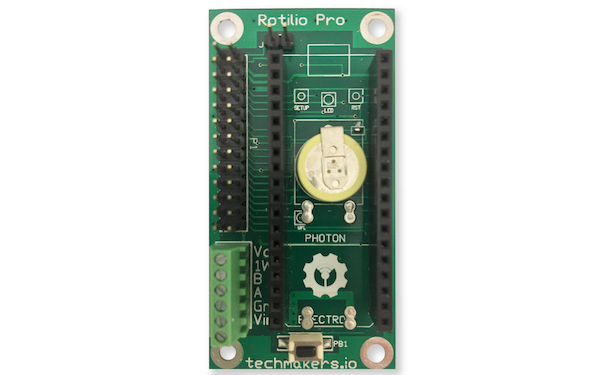
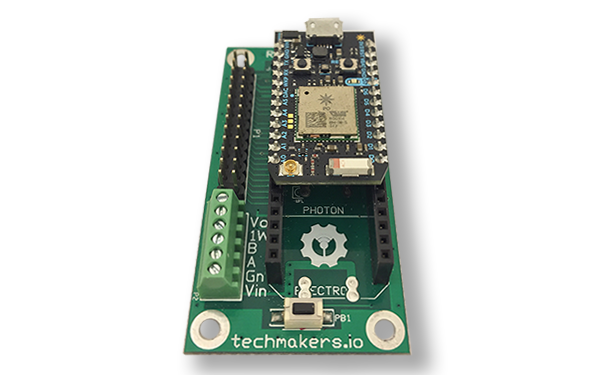
Risorse Sviluppatori fixed

Changed region(s): [[0.3, 0.0, 0.75, 1.0]]

diff --git a/Nuovosito/about.html b/Nuovosito/about.html
@@ -173,7 +173,7 @@
                 <div class="thumbnail">
                     <img class="img-responsive" src="http://placehold.it/750x450" alt="">
                     <div class="caption">
-                        <h3>John Smith<br>
+                        <h3>Mara Sabini<br>
                             <small>Job Title</small>
                         </h3>
                         <p>Lorem ipsum dolor sit amet, consectetur adipisicing elit. Iste saepe et quisquam nesciunt maxime.</p>
@@ -190,11 +190,14 @@
             </div>
             <div class="col-md-3 text-center">
                 <div class="thumbnail">
-                    <img class="img-responsive" src="http://placehold.it/750x450" alt="">
+                    <div style="padding: 20px;">
+                     <span class="fa-stack fa-4x">
+                              <i class="fa fa-circle fa-stack-2x"></i>
+                              <i class="fa fa-question fa-stack-2x fa-inverse"></i>
+                        </span>
+                    </div>
                     <div class="caption">
-                        <h3>John Smith<br>
-                            <small>Job Title</small>
-                        </h3>
+                        <h3>Stiamo assumendo<br></h3>
                         <p>Lorem ipsum dolor sit amet, consectetur adipisicing elit. Iste saepe et quisquam nesciunt maxime.</p>
                         <ul class="list-inline">
                             <li><a href="#"><i class="fa fa-2x fa-facebook-square"></i></a>
@@ -215,23 +218,17 @@
             <div class="col-lg-12">
                 <h2 class="page-header" id="customers">Our Customers</h2>
             </div>
-            <div class="col-md-2 col-sm-4 col-xs-6">
-                <img class="img-responsive customer-img" src="http://placehold.it/500x300" alt="">
+            <div class="col-md-3 col-sm-3 col-xs-6">
+                <img class="img-responsive customer-img" src="img/Logo_SIAD.jpg" alt="">
             </div>
-            <div class="col-md-2 col-sm-4 col-xs-6">
-                <img class="img-responsive customer-img" src="http://placehold.it/500x300" alt="">
+            <div class="col-md-3 col-sm-3 col-xs-6">
+                <img class="img-responsive customer-img" src="img/Logo_MY.jpg" alt="">
             </div>
-            <div class="col-md-2 col-sm-4 col-xs-6">
-                <img class="img-responsive customer-img" src="http://placehold.it/500x300" alt="">
+            <div class="col-md-3 col-sm-3 col-xs-6">
+                <img class="img-responsive customer-img" src="img/Logo_TELEMA.jpg" alt="">
             </div>
-            <div class="col-md-2 col-sm-4 col-xs-6">
-                <img class="img-responsive customer-img" src="http://placehold.it/500x300" alt="">
-            </div>
-            <div class="col-md-2 col-sm-4 col-xs-6">
-                <img class="img-responsive customer-img" src="http://placehold.it/500x300" alt="">
-            </div>
-            <div class="col-md-2 col-sm-4 col-xs-6">
-                <img class="img-responsive customer-img" src="http://placehold.it/500x300" alt="">
+            <div class="col-md-3 col-sm-3 col-xs-6">
+                <img class="img-responsive customer-img" src="img/Logo_COMUNE.jpg" alt="">
             </div>
         </div>
         <!-- /.row -->

diff --git a/Nuovosito/RotilioPro.html b/Nuovosito/RotilioPro.html
@@ -238,7 +238,7 @@
                     <!-- Wrapper for slides -->
                     <div class="carousel-inner">
                         <div class="item active">
-                            <img class="img-responsive" src="img/RotilioPRO.png" alt="">
+                            <img class="img-responsive" src="img/RotilioPRO3G.png" alt="">
                         </div>
                         <div class="item">
                             <img class="img-responsive" src="img/ProvaPRO3G.png" alt="">
@@ -307,7 +307,7 @@
 
             <div class="col-sm-4 col-xs-4">
                 <img class="img-responsive img-hover img-related" src="img/ScreenLB.png" alt="Simulatore di carico per generatori">
-                <h5 class="text-center">Simulatore di carico per generatori, Applicazione Web e Mobile</h5>
+                <h5 class="text-center">Simulatore di carico per generatori, interfaccia grafica</h5>
             </div>
 
         </div>

diff --git a/Nuovosito/Sviluppatori.html b/Nuovosito/Sviluppatori.html
@@ -166,7 +166,7 @@
 
             <div class="col-sm-4">
                 <a href="http://rotilio.cc/">
-                    <img class="img-responsive img-hover img-related" src="img/rotiliocc.png" alt="">
+                    <img class="img-responsive img-hover img-related" src="img/Rotilio.cc.png" alt="">
                 </a>
             </div>
 

diff --git a/Nuovosito/services.html b/Nuovosito/services.html
@@ -137,7 +137,7 @@
     <!-- Image Header -->
     <div class="row">
         <div class="col-lg-12">
-            <img class="img-responsive" src="img/Piattaforma.png" alt="">
+            <img class="img-responsive" src="img/Piattaforma1200.png" alt="">
         </div>
     </div>
     <!-- /.row -->

diff --git a/Nuovosito/todo/README.md b/Nuovosito/todo/README.md
@@ -61,6 +61,6 @@
 	- Immagine 1200x300
 	- Cappello introduttivo
 	- Verifica testo
-	- Sistemare le immagini
+	- ~~Sistemare le immagini~~
 
 - Contatti
